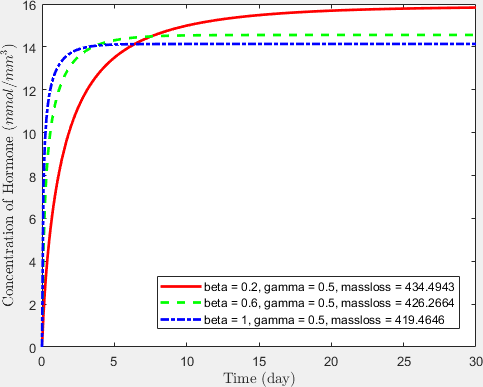
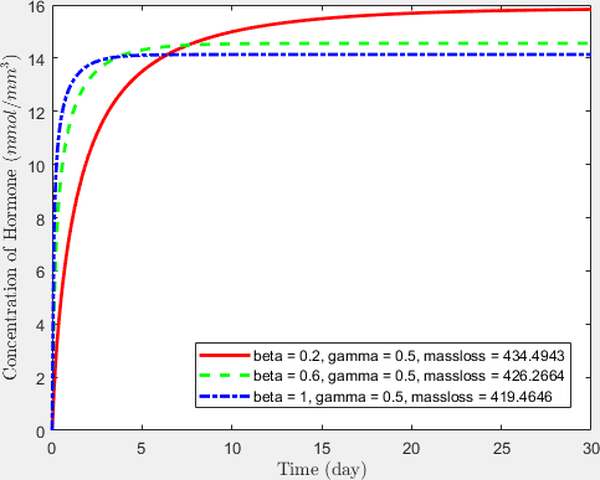
Cleanup: Resize visuals to 400px width for compact view

diff --git a/scripts/resize_fix_v2.py b/scripts/resize_fix_v2.py
@@ -1,0 +1,33 @@
+from PIL import Image
+import os
+
+target_width = 400
+images = [
+    "AppliedFEM/ProblemB1_FinestMeshes.png",
+    "AppliedFEM/ProblemB3_Solution_T_30.png",
+    "AppliedFEM/Part3_Task2_Massloss.png",
+    "simulation_result.png"
+]
+
+print(f"Forcing resize of images to width {target_width}px...")
+
+for img_path in images:
+    if os.path.exists(img_path):
+        try:
+            with Image.open(img_path) as img:
+                current_width, current_height = img.size
+                ratio = target_width / current_width
+                new_height = int(current_height * ratio)
+                
+                # Always resize if current > target, or just do it to be safe if close
+                if current_width > target_width:
+                    print(f"Resizing {img_path}: {current_width}x{current_height} -> {target_width}x{new_height}")
+                    img = img.resize((target_width, new_height), Image.Resampling.LANCZOS)
+                    img.save(img_path)
+                else:
+                    print(f"Skipping {img_path} (already small: {current_width}px)")
+                    
+        except Exception as e:
+            print(f"Error processing {img_path}: {e}")
+    else:
+        print(f"File not found: {img_path}")

diff --git a/src/config.py b/src/config.py
@@ -1,5 +1,5 @@
 from dataclasses import dataclass
-import tensorly as tl
+
 
 @dataclass
 class PhysicsParams:
